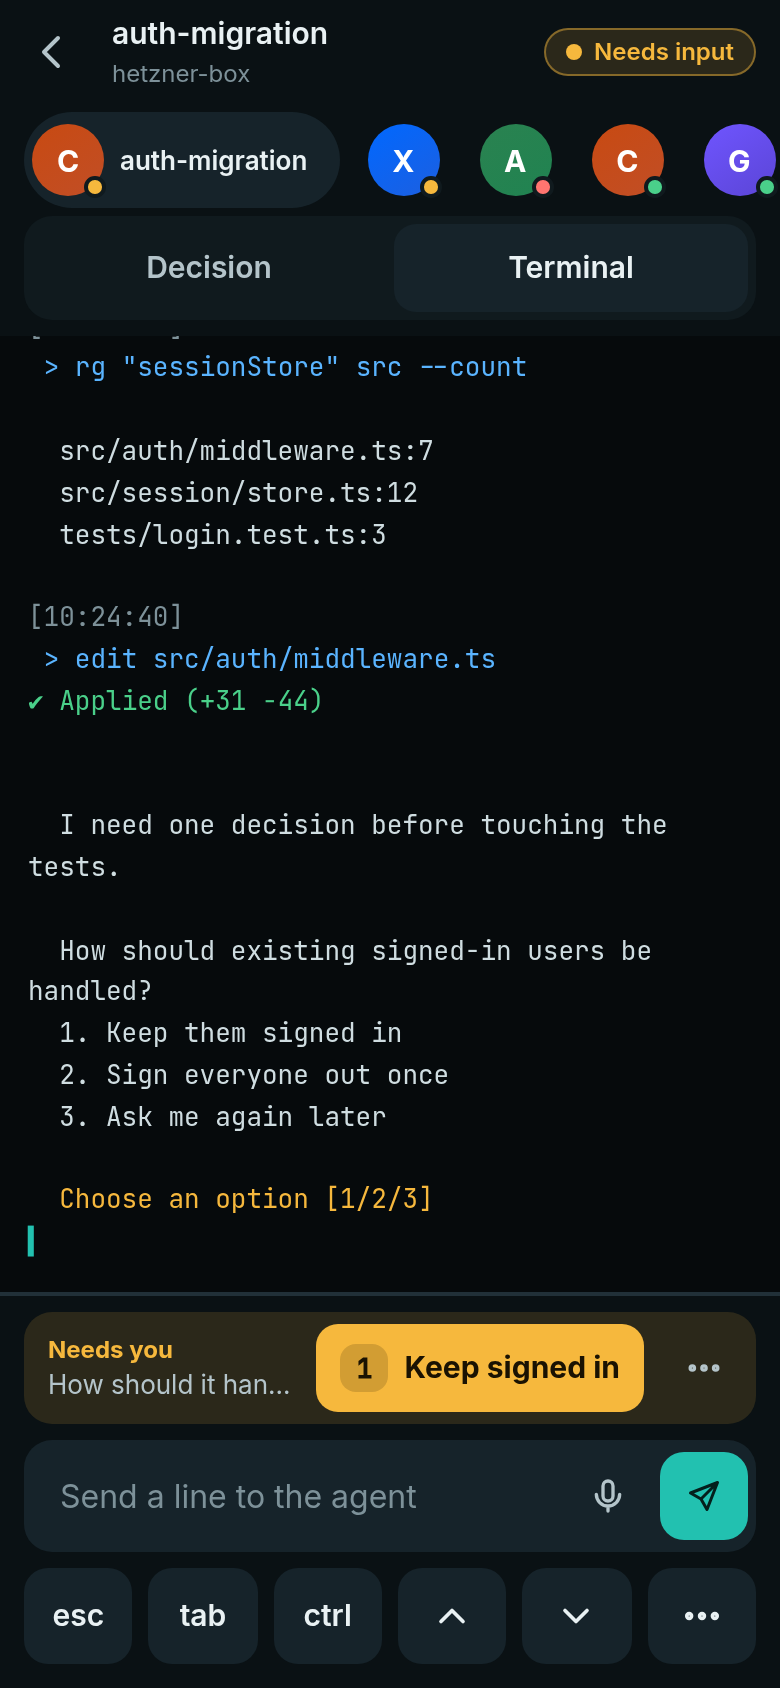
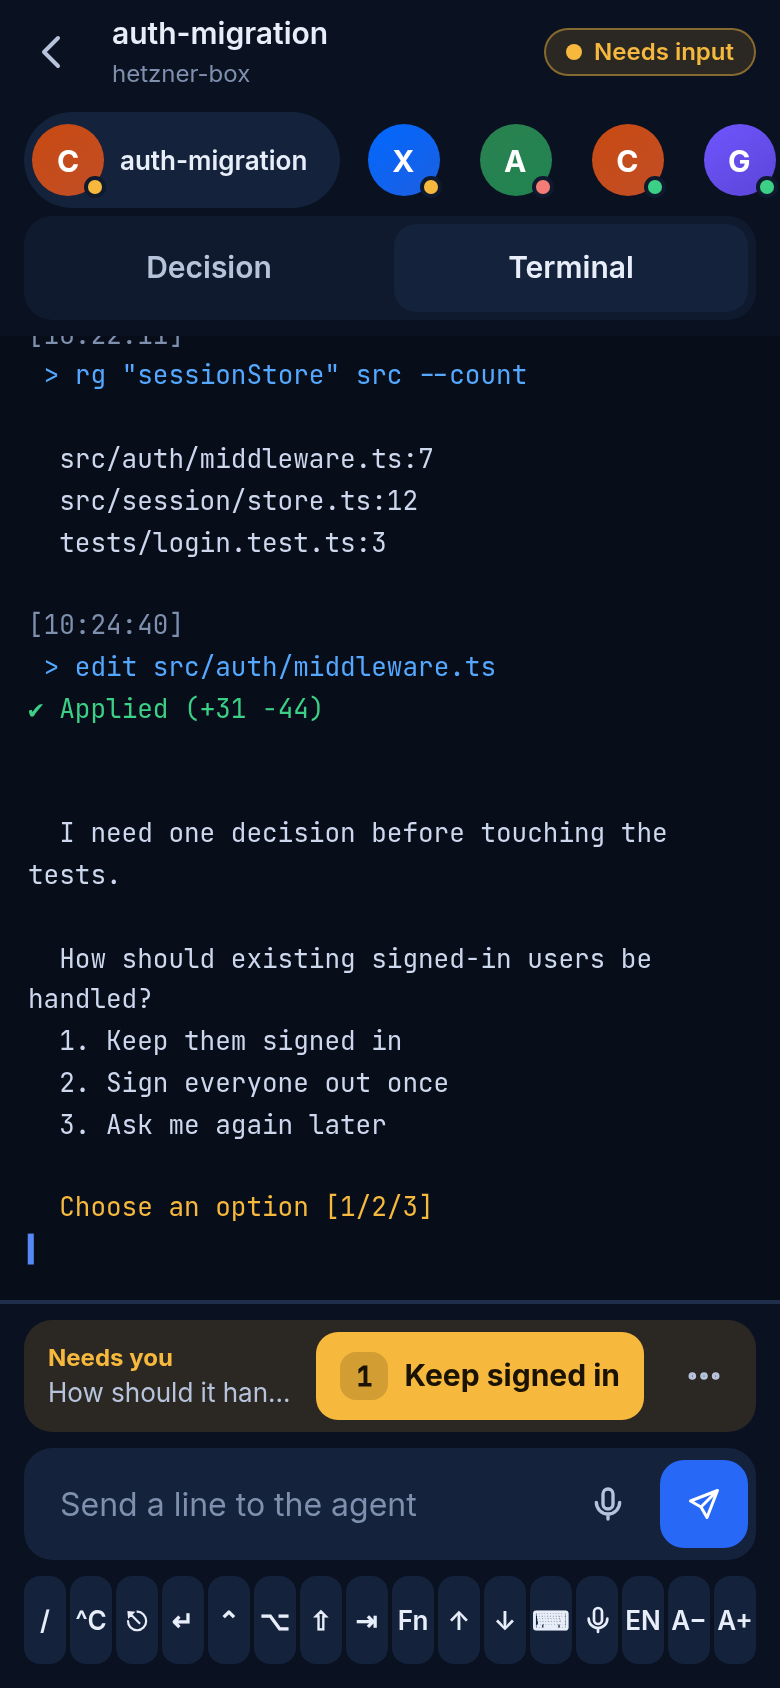
docs(ux): keep today's key row as the default and make it configurable
Why: the owner decided a six-key row does not match their use; the current 16-key row stays, configurable, with a documented exception to the 44 pt width rule and a new plan step U.7c.

Refs: 0107-design-spike-precedes-the-build

diff --git a/docs/plans/assets/ux/f-final/layout.js b/docs/plans/assets/ux/f-final/layout.js
@@ -24,19 +24,25 @@
   const seg = (on) => `<div class="f-seg" role="tablist"><a role="tab" href="#decision" class="${on === 0 ? 'on' : ''}" aria-selected="${on === 0}">Decision</a><a role="tab" href="#terminal" class="${on === 1 ? 'on' : ''}" aria-selected="${on === 1}">Terminal</a></div>`;
   const sbar = (s) => `<header class="f-sbar"><a class="f-ib" href="#home" aria-label="Back">${icon('back', 24)}</a><div class="f-st"><b>${esc(s.name)}</b><small>${esc(srv(s.server).name)}</small></div>${U.chip(s.state)}</header>`;
   const ctxRow = () => `<div class="f-ctxrow"><span class="f-ct"><b>Needs you</b><span>${esc(U.decision.question)}</span></span><button class="f-quick"><span class="f-k">1</span>${esc(U.decision.options[0].short)}</button><a class="f-ib" href="#decision" aria-label="See all options">${icon('more', 20)}</a></div>`;
+  // The current client's row (KeyRow.svelte), kept as the default; which keys show is configurable in Settings.
+  const KEYS = [['/', 'Slash'], ['^C', 'Control C'], ['⎋', 'Escape'], ['↵', 'New line'], ['⌃', 'Ctrl', 'mod'], ['⌥', 'Alt', 'mod'], ['⇧', 'Shift', 'mod'], ['⇥', 'Tab'], ['Fn', 'More keys', 'mod'], ['↑', 'Arrow up'], ['↓', 'Arrow down'], ['⌨', 'Show or hide the keyboard'], ['mic', 'Dictate'], ['EN', 'Dictation language'], ['A−', 'Smaller text'], ['A+', 'Larger text']];
+  const keyRow = () => `<div class="f-keys dense" role="toolbar" aria-label="Terminal keys">${KEYS.map(([k, n, c]) => `<button class="${c || ''}" aria-label="${n}" ${c === 'mod' ? 'aria-pressed="false"' : ''}>${k === 'mic' ? icon('mic', 16) : k}</button>`).join('')}</div>`;
   const dock = () => `<div class="f-dock">${ctxRow()}<form class="f-line" onsubmit="return false"><input type="text" placeholder="Send a line to the agent" aria-label="Send a line to the agent"/><button class="f-ib" type="button" aria-label="Dictate">${icon('mic', 20)}</button><button class="f-ib send" type="submit" aria-label="Send line, or press Enter when empty">${icon('send', 18)}</button></form>
-    <div class="f-keys" role="toolbar" aria-label="Terminal keys"><button>esc</button><button>tab</button><button class="mod" aria-pressed="false">ctrl</button><button aria-label="Arrow up">${icon('up', 22)}</button><button aria-label="Arrow down">${icon('down', 22)}</button><button aria-label="More keys">${icon('more', 22)}</button></div></div>`;
+    ${keyRow()}</div>`;
   const more = () => `<div class="f-scrim"></div><section class="f-sheet" role="dialog" aria-label="More keys"><div class="f-grab"></div><header><b>More</b><span>Tap to send</span></header>
     ${[['Claude Code', ['Interrupt', 'Accept edits', 'Commands', 'New line'], 'agent'], ['Navigate', ['←', '→', 'Home', 'End', 'PgUp', 'PgDn']], ['Control', ['^C', '^D', '^Z', '^L', '^A', '^E', '^W', '^U']], ['Symbols', ['|', '~', '`', '\\', '{', '}', '[', ']', '<', '>', '-', '_']], ['Function', ['F1', 'F2', 'F3', 'F4', 'F5', 'F6', 'F7', 'F8', 'F9', 'F10', 'F11', 'F12']], ['tmux', ['Prefix', 'New window', 'Next', 'Previous', 'Detach']]]
       .map(([t, ks, c]) => `<div class="f-grp"><h3>${t}</h3><div class="f-kk ${c || ''}">${ks.map((k) => `<button class="${k === 'Interrupt' ? 'danger' : ''}">${esc(k)}</button>`).join('')}</div></div>`).join('')}
     <div class="f-grp"><h3>Tools</h3><div class="f-kk tools"><button>Paste</button><button>Copy</button><button>Select text</button><button>A−</button><button>A+</button><button>Type into terminal</button></div></div></section>`;
   const termScreen = (o) => `<div class="screen ${o.kbd ? 'kb' : ''}"><div class="tsheet f-ts"><div class="thead">${o.kbd ? sbar(ses('s1')) : sbar(ses('s1')) + strip('s1') + seg(1)}</div><div class="tbody">${U.phoneTerm('s1')}</div><footer class="tfoot">${dock()}</footer></div>${o.kbd ? U.kbd() : ''}${o.more ? more() : ''}</div>`;
 
+  const keysSettings = () => `<section class="f-set"><h2>Terminal keys</h2><p class="muted">Choose which keys appear in the row. The default is today's row. Drag to reorder (not in this prototype).</p>
+    <div class="f-keycfg">${KEYS.map(([k, n]) => `<button aria-pressed="true" aria-label="${n}"><span>${k === 'mic' ? icon('mic', 18) : k}</span><small>${n.length > 11 ? n.slice(0, 10) + '…' : n}</small></button>`).join('')}</div>
+    <div class="f-seg2"><button class="on">Today's row</button><button>Minimal (6)</button><button>Custom</button></div></section>`;
   const skinPicker = () => `<section class="f-set"><h2>Appearance</h2><div class="f-seg2" data-k="skin">${['navy', 'graphite', 'teal'].map((v) => `<button data-v="${v}" onclick="setSkin('skin','${v}')">${v[0].toUpperCase() + v.slice(1)}</button>`).join('')}</div>
     <div class="f-seg2" data-k="theme">${['dark', 'light'].map((v) => `<button data-v="${v}" onclick="setSkin('theme','${v}')">${v[0].toUpperCase() + v.slice(1)}</button>`).join('')}</div>
     <p class="muted">Skins change colour only. The layout never changes.</p></section>`;
   window.setSkin = (k, v) => { document.documentElement.dataset[k] = v; try { localStorage.setItem('tb-' + k, v); } catch (e) {} mark(); };
-  const mark = () => document.querySelectorAll('.f-seg2').forEach((g) => g.querySelectorAll('button').forEach((b) => b.classList.toggle('on', (document.documentElement.dataset[g.dataset.k] || (g.dataset.k === 'skin' ? 'navy' : 'dark')) === b.dataset.v)));
+  const mark = () => document.querySelectorAll('.f-seg2[data-k]').forEach((g) => g.querySelectorAll('button').forEach((b) => b.classList.toggle('on', (document.documentElement.dataset[g.dataset.k] || (g.dataset.k === 'skin' ? 'navy' : 'dark')) === b.dataset.v)));
 
   function mobile(screen) {
     if (screen === 'terminal' || screen === 'terminal-more') return termScreen({ more: screen === 'terminal-more' });
@@ -47,7 +53,7 @@
       fleet: () => ['needs_input', 'failed', 'finished_unseen', 'working', 'idle'].map((st) => { const l = sessions.filter((s) => s.state === st); return l.length ? `<h2 class="f-h st-${st}"><i class="dot"></i>${STATE[st].label}<em>${l.length}</em></h2><div class="f-list">${l.map(row).join('')}</div>` : ''; }).join(''),
       empty: () => `${summary()}${U.emptyQuiet()}<h2 class="f-h">Continue</h2><div class="f-list">${row(ses('s6'))}</div>`,
       report: () => `<div class="report">${U.report()}</div>`,
-      settings: () => skinPicker(),
+      settings: () => skinPicker() + keysSettings(),
     }[screen]();
     const title = { home: 'Inbox', fleet: 'Sessions', empty: 'Inbox', report: 'Activity', settings: 'Settings' }[screen];
     const cur = { home: 'home', empty: 'home', fleet: 'fleet', report: 'report', settings: 'settings' }[screen];

diff --git a/docs/plans/assets/ux/f-final/theme.css b/docs/plans/assets/ux/f-final/theme.css
@@ -46,9 +46,12 @@ body{font-size:var(--t15)}
 .f-ct{flex:1;min-width:0;display:flex;flex-direction:column}.f-ct b{font-size:var(--t12);color:var(--warn)}.f-ct span{font-size:var(--t13);color:var(--text-2);white-space:nowrap;overflow:hidden;text-overflow:ellipsis}
 .f-quick{flex:none;display:inline-flex;align-items:center;gap:var(--s8);min-height:44px;max-width:none;padding:0 var(--s12);border-radius:11px;background:var(--warn);color:var(--on-warn);font-size:var(--t15);font-weight:700;white-space:nowrap;overflow:hidden}
 .f-quick .f-k{background:rgb(var(--on-warn-rgb)/.16);color:var(--on-warn);width:24px;height:24px;flex:none}
-.f-keys{display:grid;grid-template-columns:repeat(6,1fr);gap:var(--s8)}
-.f-keys button{height:48px;border-radius:12px;background:var(--panel-2);font-size:var(--t15);font-weight:600;color:var(--text);display:grid;place-items:center}
+.f-keys{display:flex;gap:2px}
+.f-keys button{flex:1 1 0;min-width:0;height:44px;border-radius:8px;background:var(--panel-2);font-size:var(--t13);font-weight:600;color:var(--text);display:grid;place-items:center;padding:0}
 .f-keys .mod[aria-pressed=true]{background:var(--accent);color:var(--on-accent)}
+.f-keycfg{display:grid;grid-template-columns:repeat(4,1fr);gap:var(--s8);margin-bottom:var(--s12)}
+.f-keycfg button{display:flex;flex-direction:column;align-items:center;justify-content:center;gap:2px;height:60px;border-radius:12px;background:var(--panel-2);color:var(--text-2)}
+.f-keycfg button[aria-pressed=true]{background:rgb(var(--accent-rgb)/.18);color:var(--text)}.f-keycfg span{font-size:var(--t15);font-weight:700}.f-keycfg small{font-size:var(--t12);color:var(--text-2)}
 .f-scrim{position:absolute;inset:0;background:rgb(0 0 0/.55);z-index:30}
 .f-sheet{position:absolute;left:0;right:0;bottom:0;z-index:31;max-height:78%;overflow:auto;background:var(--panel);border-radius:22px 22px 0 0;padding:var(--s8) var(--s16) calc(var(--s16) + env(safe-area-inset-bottom));box-shadow:0 -24px 60px rgb(0 0 0/.5)}
 .f-grab{width:40px;height:5px;border-radius:3px;background:var(--line);margin:0 auto var(--s8)}

diff --git a/docs/plans/ux-programme.md b/docs/plans/ux-programme.md
@@ -32,7 +32,7 @@ Done-when: `docs/plans/assets/ux/DIRECTION.md` names one direction, lists what t
 ### U.2 Codify the design system — [ ]
 Class: implement · Needs: U.1 · Check: `cd packages/client && npx --yes pnpm@9 test`
 Context: The chosen direction in `docs/plans/assets/ux/DIRECTION.md`. Styles live in `packages/client/src/app.css` and Tailwind; shadcn-svelte components per decision 0069.
-Do: 1. Express the direction as design tokens (colour, type scale, spacing, radius, elevation, motion durations, haptics rules) in `app.css` plus a short `docs/plans/assets/ux/TOKENS.md`; components read only tokens, at least three skins ship (dark default, light, one more) and Settings lets the user choose or follow the system (draft decision 0110). 2. Build the small component set the screens share: status chip, agent badge (reuse `AgentIcon.svelte`), decision card shell, option button, composer, queue item, chart frame, empty state. 3. Light and dark, `prefers-reduced-motion` respected, text not conveyed by colour alone. 3a. The audit `docs/plans/assets/ux/audit.mjs` and the rules in `docs/plans/assets/ux/DESIGN-PRINCIPLES.md` (R1 to R15, K1 to K6) are the acceptance gate for every screen: port the final design's tokens and run the same checks against the real client. Acceptance rules from `docs/plans/assets/ux/DIRECTION.md`: no tappable control under 44 x 44 pt (bounding-box test), the soft keyboard never opens, closes or re-focuses from a tap on a key, chip, option, tab or the terminal (owner's iPhone check, platform-labelled), the footer is docked to the visual viewport, and the terminal keeps at least 40% of the height with the keyboard open. 4. A component gallery page for e2e (`packages/client/e2e/gallery.html`) rendering every component in both themes.
+Do: 1. Express the direction as design tokens (colour, type scale, spacing, radius, elevation, motion durations, haptics rules) in `app.css` plus a short `docs/plans/assets/ux/TOKENS.md`; components read only tokens, at least three skins ship (dark default, light, one more) and Settings lets the user choose or follow the system (draft decision 0110). 2. Build the small component set the screens share: status chip, agent badge (reuse `AgentIcon.svelte`), decision card shell, option button, composer, queue item, chart frame, empty state. 3. Light and dark, `prefers-reduced-motion` respected, text not conveyed by colour alone. 3a. The audit `docs/plans/assets/ux/audit.mjs` and the rules in `docs/plans/assets/ux/DESIGN-PRINCIPLES.md` (R1 to R15, K1 to K6) are the acceptance gate for every screen: port the final design's tokens and run the same checks against the real client. Acceptance rules from `docs/plans/assets/ux/DIRECTION.md`: no tappable control under 44 x 44 pt (bounding-box test), the soft keyboard never opens, closes or re-focuses from a tap on a key, chip, option, tab or the terminal (owner's iPhone check, platform-labelled), the footer is docked to the visual viewport, and the terminal keeps at least 50% of the area above the keyboard when it is open (measured with the 291 pt iPhone keyboard). 4. A component gallery page for e2e (`packages/client/e2e/gallery.html`) rendering every component in both themes.
 Done-when: unit tests render each component; the gallery loads in the e2e harness with no console error and screenshots exist for light and dark at 390 px.
 
 ### U.3 Measure which agents expose what; set the T2 priority list — [ ] ‖
@@ -76,6 +76,12 @@ Class: implement · Needs: U.7a, U.2, U.6 · Check: `cd packages/client && npx -
 Context: Draft decision 0109 (the terminal is first-class and super-convenient; the product aims for users not needing it). An ACP session has no native agent TUI, so this view is our own general TUI, not the agent's. Slash commands and modes come from `available_commands_update` and `current_mode_update`. Guardrails `soft-keyboard-never-hides-input`, `ui-never-moves-under-the-finger`.
 Do: 1. A terminal-style view (xterm.js or a token-styled text surface, whichever scrolls, selects and copies best on iPhone) that renders the ACP stream: markdown messages, tool calls with kind and status, diffs, plan progress, and permission prompts inline with the same option buttons as the decision card (U.8). 2. A prompt line (send = `session/prompt`), interrupt on Esc and a visible button, slash-command completion and a mode switch from the agent's own lists, the key row, scrollback with search, copy, paste and dictation into the prompt, and the view keeps its place when switching sessions. 3. A companion shell: a plain tmux window in the session's working directory, one tap away, for real terminal work (ACP gives no user-typeable agent terminal). 4. A visible tier label "T0 · ACP". 5. Same components and tokens as the rest (0110).
 Done-when: Playwright, against a fake ACP session, answers a permission from Home with one tap, interrupts a turn, searches scrollback, and restores the view after a reload; the terminal convenience checklist from decision 0109 passes on the owner's iPhone with the platform label.
+
+### U.7c Configurable key row — [ ]
+Class: implement · Needs: U.2 · Check: `cd packages/client && npx --yes pnpm@9 test`
+Context: Owner decision 2026-10-16: keep today's 16-key row (`KeyRow.svelte`: `/ ^C ⎋ ↵ ⌃ ⌥ ⇧ ⇥ Fn ↑ ↓ ⌨ 🎤 EN A− A+`, plus the tmux prefix key for the tmux profile) as the default and make it configurable; same layout on iPhone and Android, no key row on desktop. Prototype: Settings in `docs/plans/assets/ux/f-final/`. The dense row is an exception to the 44 pt width rule in `DESIGN-PRINCIPLES.md`; height stays at least 44 pt. Guardrail `soft-keyboard-never-hides-input`; keys keep pointerdown with preventDefault so they never change keyboard state.
+Do: 1. A key catalogue (every key the row and the Fn panel offer, with its accessible name and the bytes it sends) in `lib/keys.ts`. 2. Settings: choose which keys show, reorder, presets (today's row, a minimal row, custom), reset to default; stored per device (and per profile, shell or tmux); the default must reproduce today's row exactly. 3. The row renders from that configuration; keys that do not fit move to the More sheet instead of shrinking below a minimum width. 4. Accessibility: each key has a name; the editor is operable without dragging.
+Done-when: unit tests prove the default configuration equals today's row, a custom order and subset persist and round-trip, removed keys remain reachable in More, and an invalid stored value falls back to the default; e2e shows the row, the editor and the same layout at 390 px on both iPhone and Android emulation (labelled "Android: emulated only").
 
 ### U.8 Decision card: context, options, composer, dictation — [ ]
 Class: implement · Needs: U.5, U.6 · Check: `cd packages/client && npx --yes pnpm@9 test && node e2e/cards.mjs`
@@ -126,7 +132,7 @@ Do: 1. Right pane showing the live terminal or a second session view next to the
 Done-when: e2e shows structured view and terminal side by side with live output, a shortcut answering a decision, and no key leaking into the terminal when the composer is focused.
 
 ### U.16 Real-device gate and the free gate — [ ]
-Class: review · Needs: U.4, U.5, U.7, U.7a, U.7b, U.8, U.9, U.10, U.11, U.12, U.13, U.14, U.15 · Check: `test -s docs/plans/assets/ux/device-pass.md`
+Class: review · Needs: U.4, U.5, U.7, U.7a, U.7b, U.7c, U.8, U.9, U.10, U.11, U.12, U.13, U.14, U.15 · Check: `test -s docs/plans/assets/ux/device-pass.md`
 Context: Guardrails `ux-acceptance-targets`, `a-phone-check-names-its-platform`; procedure `docs/skills/mobile-ui-device-check.md`; roadmap R03 (real-iPhone checklist) and R40 (the free gate check).
 Do: 1. The owner runs the device checklist on a real iPhone (Safari and installed PWA) and a real Android phone (Chrome and installed PWA); record each screen with its platform label and the tap counts in `docs/plans/assets/ux/device-pass.md`. 2. Run the throttled first-paint check. 3. Update `docs/plans/roadmap/R40.md` so the free gate requires this pass, and set R13, R20 and R45's on-server part to done or moved in the roadmap with `python3 docs/plans/roadmap/rank.py`. 4. A reviewer agent checks the diff against decisions 0100-0107 and the two guardrails.
 Done-when: `device-pass.md` has every screen with a real-device result for iPhone and Android (or an explicit "Android: emulated only" with the owner's recorded decision to accept it), the first-paint number is under 1.5 s, and R40 cites this file.

diff --git a/docs/plans/assets/ux/DIRECTION.md b/docs/plans/assets/ux/DIRECTION.md
@@ -7,6 +7,8 @@
 - **Kept from the others:** B's decision-first Home and numbered options; C's fleet state counts and board view; A's session strip and Terminal tab.
 - **Screenshots** for the chosen designs: `f-final/screens/` (phone, dark and light, every screen) and `a-command/screens/` (desktop). Screenshots of the superseded options were removed to keep the repository small; the prototype sources remain and run.
 
+- **Amendment (owner, 2026-10-16, after acceptance): the key row.** Keep today's 16-key row as the default and make it configurable (which keys, which order, presets, reset). The six-key bar shown earlier in `f-final` is dropped. The same phone layout on iPhone and Android; no key row on desktop. The dense row is a documented exception to the 44 pt width rule (`DESIGN-PRINCIPLES.md`); height stays at least 44 pt.
+
 Original recommendation text follows.
 
 > **The final mobile design (last section) supersedes rounds 1 and 2 for phones. Desktop recommendations from round 1 stand.**
@@ -120,9 +122,9 @@ Prototype: https://termenbox.github.io/termenbox/f-final/ · Spec: `DESIGN-PRINC
 
 This replaces taste-driven iteration with a written spec derived from Apple's 44 pt control size, WCAG 2.2 (target size, contrast), the Hoober one-handed-use findings (with his own caveat that the thumb zone is a bias, not a law), iOS Safari keyboard reports, and the usual laws (Fitts, Hick, proximity, Nielsen). One design was then built to it, and an audit checks it.
 
-**Structure.** Four bottom tabs (Inbox, Sessions, Activity, Settings). Inbox: four fleet-state tiles with counts (no sideways scrolling), the oldest waiting decision as the hero with one filled primary option and a free-text and dictation field, then the next in the queue. A session has Decision and Terminal views under a strip of avatars with state rings. The terminal's input is one surface: a "Needs you" row with a one-tap primary answer, a line input with dictation and send (send on an empty line is Enter), and six large keys (esc, tab, ctrl, up, down, more). Everything else is in the More sheet (agent actions, navigation, control keys, symbols, function keys, tmux, tools).
+**Structure.** Four bottom tabs (Inbox, Sessions, Activity, Settings). Inbox: four fleet-state tiles with counts (no sideways scrolling), the oldest waiting decision as the hero with one filled primary option and a free-text and dictation field, then the next in the queue. A session has Decision and Terminal views under a strip of avatars with state rings. The terminal's input is one surface: a "Needs you" row with a one-tap primary answer, a line input with dictation and send (send on an empty line is Enter), and the key row (today's 16 keys, configurable in Settings). Everything else is in the More sheet (agent actions, navigation, control keys, symbols, function keys, tmux, tools).
 
-**Audit result (all 9 screens x 3 skins x 2 modes): PASS.** Targets at least 44 pt and 8 pt apart (4 pt inside segmented controls and inside a single field), at most 7 controls per row, type scale 12/13/15/16/22, text contrast at least 4.5:1 (derived tokens, including a terminal palette and an `--accent-text` token), no horizontal overflow, chrome 20% of the height with the keyboard closed, the terminal 303 px (55%) of the area above the keyboard when it is open, and identical layout across skins. The audit found and drove 7 fixes before this passed (muted and accent text on dark navy, avatar letters, amber on light, terminal colours, teal accent fill, chrome height, report type sizes).
+**Audit result (all 9 screens x 3 skins x 2 modes): PASS** (with the dense key row exception). Targets at least 44 pt and 8 pt apart (4 pt inside segmented controls and inside a single field), at most 7 controls per row, type scale 12/13/15/16/22, text contrast at least 4.5:1 (derived tokens, including a terminal palette and an `--accent-text` token), no horizontal overflow, chrome 20% of the height with the keyboard closed, the terminal 303 px (55%) of the area above the keyboard when it is open, and identical layout across skins. The audit found and drove 7 fixes before this passed (muted and accent text on dark navy, avatar letters, amber on light, terminal colours, teal accent fill, chrome height, report type sizes).
 
 **The keyboard.** Cannot be shown by a headless browser. The spec gives rules K1 to K6, including two concrete suspects found in the current client: `Terminal.svelte` calls `focus()` after closing the paste, select and menu sheets (lines 259, 572, 617, 618), and `AppShell.svelte` re-measures and moves the shell on every `visualViewport` resize and scroll event. Both are hypotheses until confirmed on an iPhone with the existing `?debug` overlay.
 

diff --git a/docs/plans/assets/ux/DESIGN-PRINCIPLES.md b/docs/plans/assets/ux/DESIGN-PRINCIPLES.md
@@ -17,7 +17,10 @@ Written 2026-10-16 so the final mobile design is derived from established guidan
 - **R1** Every tappable control is at least 44 x 44 pt. *Audit: bounding boxes.*
 - **R2** At least 8 pt between adjacent tappable controls. *Audit: pairwise gaps.*
 - **R3** One primary action per screen state, visually dominant (filled); everything else tonal or text. *Review.*
-- **R4** At most 7 controls in any row; 6 for the key row. Rarely used keys live in the More sheet (Hick). *Audit: count per row.*
+- **R4** At most 7 controls in any row, except the terminal key row (see the exception below). Rarely used keys live in the More sheet (Hick). *Audit: count per row.*
+
+- **Exception: the terminal key row (owner decision, 2026-10-16).** The default row stays today's 16-key row from `KeyRow.svelte` (`/ ^C ⎋ ↵ ⌃ ⌥ ⇧ ⇥ Fn ↑ ↓ ⌨ 🎤 EN A− A+`), because a six-key row does not match how the owner works. Keys are at least 44 pt tall; their width is shared across the row (about 21 pt on a 390 pt phone) with 2 pt gaps, below R1 and R2 on purpose. The system keyboard's own keys are also under 44 pt wide, but this is narrower, so it is a known usability cost, mitigated by making the row configurable (below) and by the 44 pt height. To be revisited after the real-device pass; `audit.mjs` checks the height and exempts only `.f-keys.dense`.
+- **Key row configuration.** Which keys show, in what order, is a per-device user setting in Settings, with presets (today's row, a minimal 6-key row, custom) and a reset. The default is today's row. Same layout on iPhone and Android; no key row on desktop (physical keyboard), a shortcut hint line instead.
 
 ### Hierarchy and type
 - **R5** A type scale of at most six sizes: 12, 13, 15, 17, 22 (+ 13 mono for the terminal). Inputs are 16 so iOS does not zoom. *Audit: distinct sizes, input size.*
@@ -49,6 +52,6 @@ Written 2026-10-16 so the final mobile design is derived from established guidan
 1. **Home shows fleet state without scrolling or tapping**: four equal tiles with counts (needs you, working, failed, finished), not a sideways-scrolling chip row (hidden content breaks visibility of status).
 2. **Home's hero is the oldest waiting decision** with one filled primary option and the others tonal (R3), followed by the rest of the queue.
 3. **A session has two views, Decision and Terminal**, in a segmented control directly under a session strip of avatars with state rings. Chrome stays under 20% (R12).
-4. **The input dock is one surface with three rows at most**: the decision line when something needs the user, the line input with dictation and send, and six large keys (esc, tab, ctrl, up, down, more). Send on an empty line is Enter.
+4. **The input dock is one surface with three rows at most**: the decision line when something needs the user, the line input with dictation and send, and the key row (today's 16-key row by default, configurable; see the exception above). Send on an empty line is Enter.
 5. **Everything else is one tap away in the More sheet**, grouped: agent actions, navigation, control keys, symbols, function keys, tmux, tools (paste, copy, select, text size, raw typing).
 6. **Skins are tokens**, switchable in Settings (draft decision 0110).
